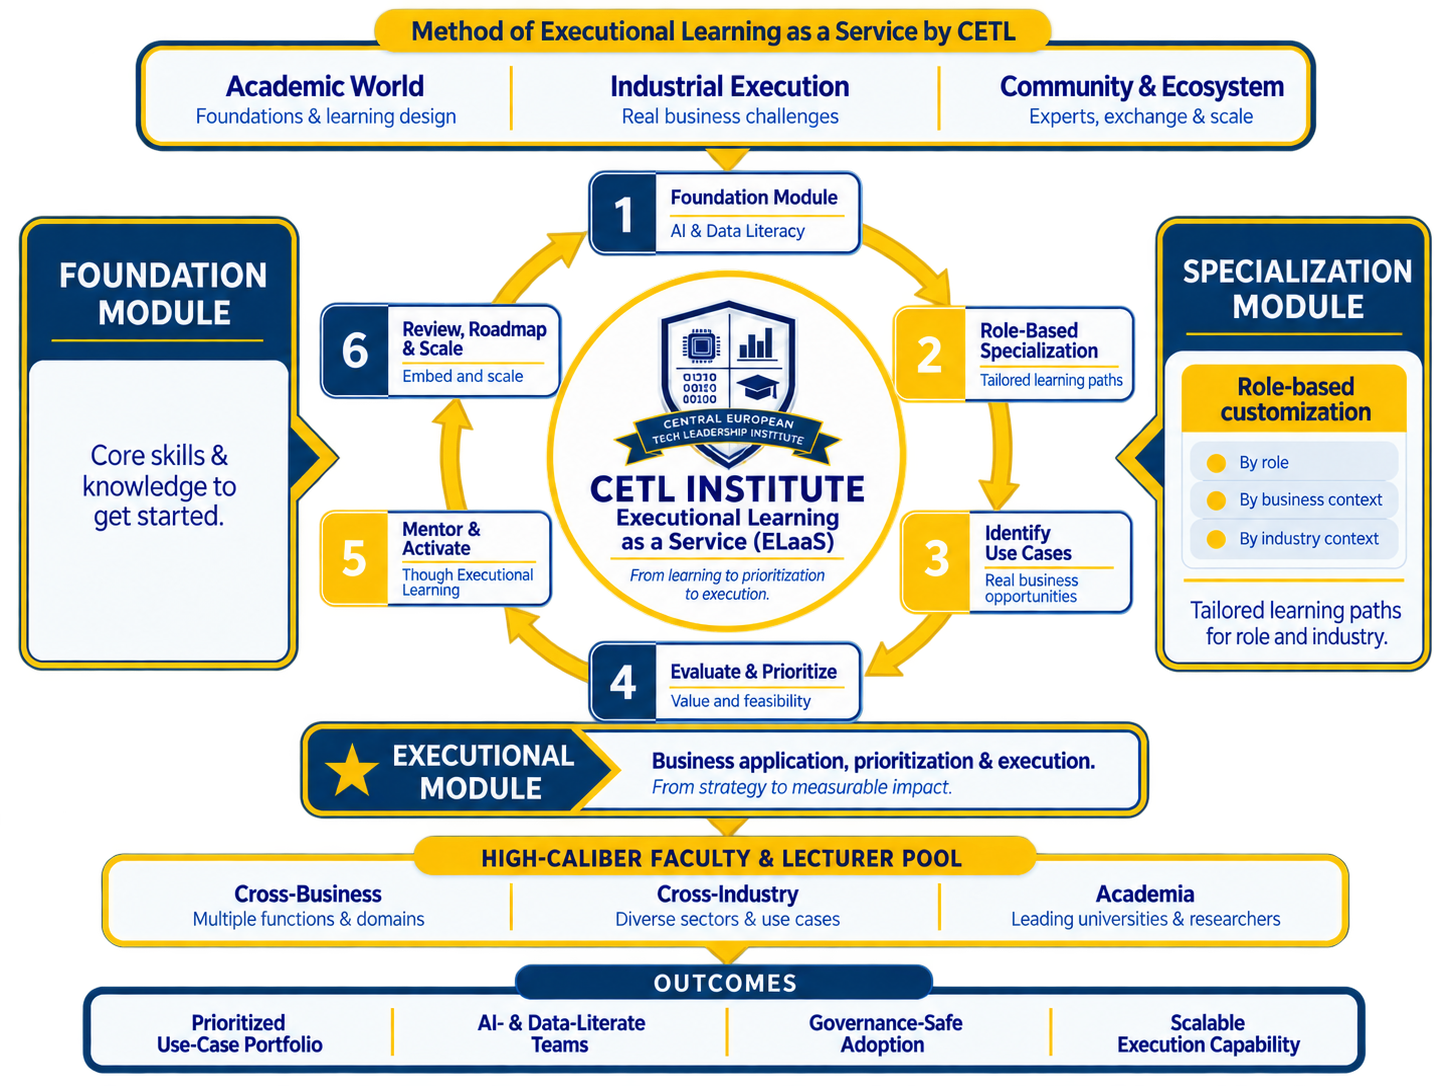
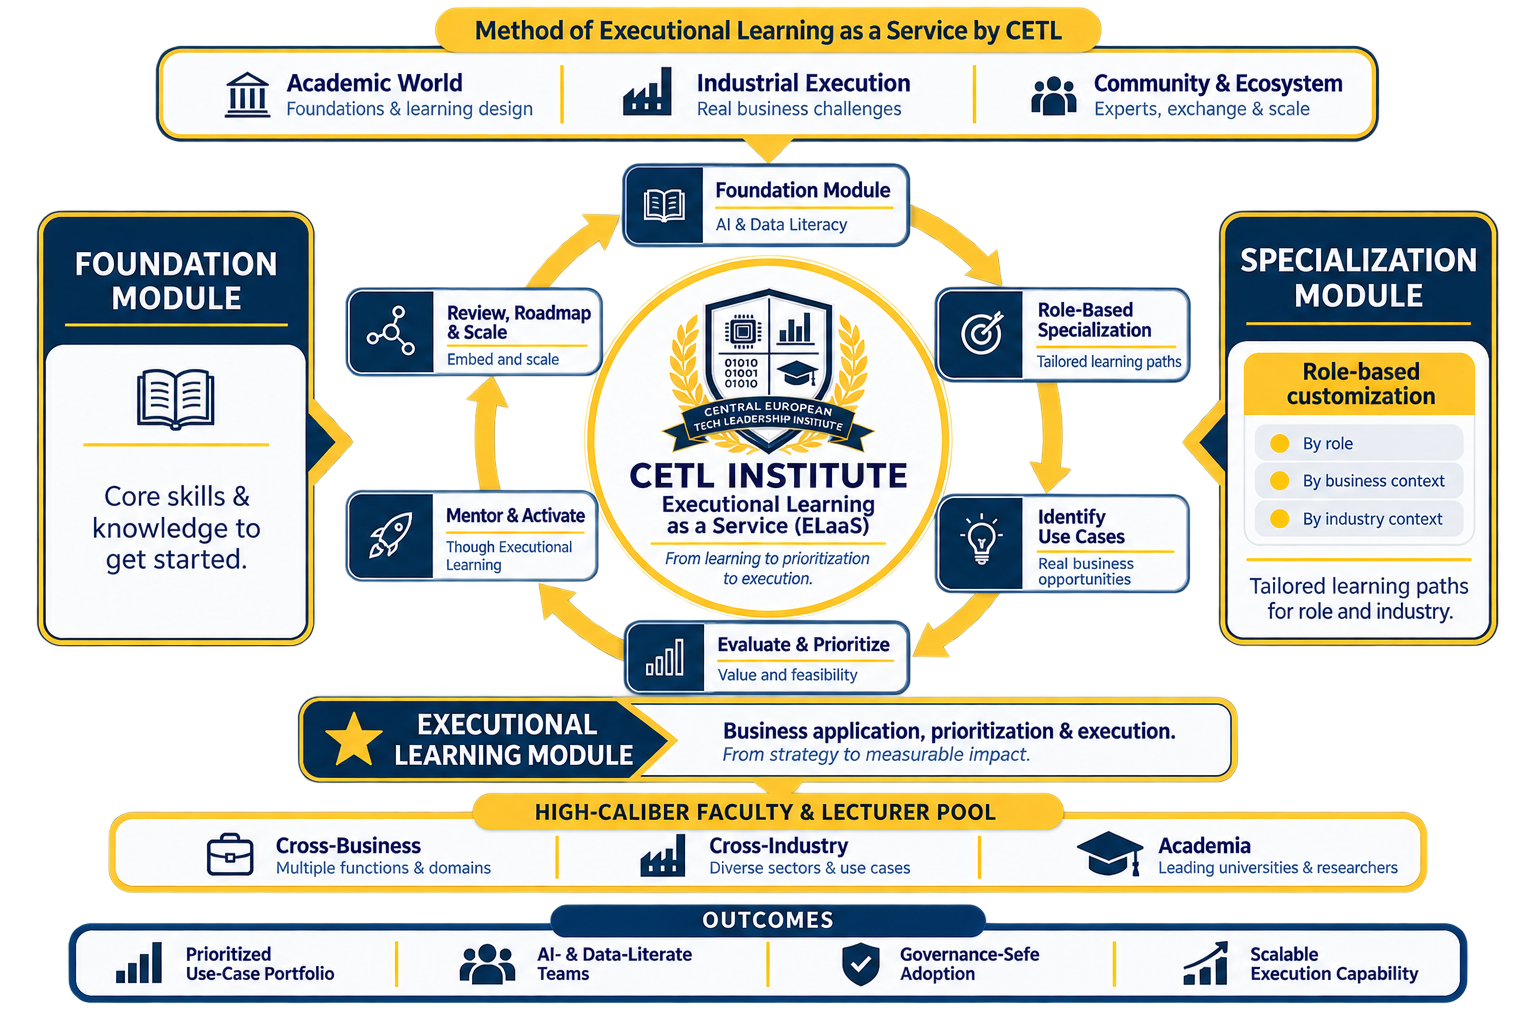
content: shorten methodology headline, swap updated diagram, retitle portfolio headline
- Methodology section headline reduced to just "Methodik"/"Methodology".
- New ELaaS method & ecosystem diagram (icons on the ecosystem band,
  glow background).
- Products headline now leads with "Maßschneiderung für die Talente
  in Ihrem Unternehmen." / "Customization for the talent in your
  organization."

diff --git a/lib/content.de.ts b/lib/content.de.ts
@@ -395,7 +395,7 @@ export const de: ContentBundle = {
 
   ELAAS_METHODOLOGY: {
     eyebrow: "Unser Core USP",
-    headline: "Executional Learning as a Service: Methodik & Ökosystem",
+    headline: "Methodik",
     intro: [
       "Unsere Executional-Learning-Methodik kombiniert das Beste aus hochkarätigen akademischen Modulen mit Zertifizierung, Industrie und Community — und aktiviert Kompetenzen direkt in der Praxis, mit maßgeschneiderten Lernformaten und rollenbasierter Aktivierung für die Transformation von Unternehmen.",
       "Die Methodik skaliert diese Lernarchitekturen flexibel auf Kontext und Zielgruppe, während beispielsweise Embedded Engineering die Befähigung nah an reale Business-Herausforderungen bringt. Über unsere Community verwandeln wir Ökosystem-Energie in gemeinsame Wirkung — von der Idee zur Lösung, die standardisierte Lernformate, Lehrgänge und Seminare (manchmal mit kurzen Capstones) allein nicht liefern können.",
@@ -758,7 +758,7 @@ export const de: ContentBundle = {
     },
     productPortfolio: {
       eyebrow: "CETL Portfolio",
-      headline: "Höchste Individualisierung für Ihr Unternehmen durch CETLs einzigartiges Rahmenwerk.",
+      headline: "Maßschneiderung für die Talente in Ihrem Unternehmen.",
       intro: "CETL befähigt Unternehmen durch die einzigartige, individuelle Kopplung Ihrer Unternehmensstrategie (Standards, Tools, operative Ziele & Herausforderungen) mit den Lernergebnissen und -zielen Ihres wertvollsten Guts: Ihrer Mitarbeiter:innen. CETL Portfolio ist strategisch & operativ auf die spezifischen Reifegradlücken von Organisationen mit komplexer Enterprise-Architektur und regulatorischen Anforderungen ausgelegt — wir verbinden strukturiertes Executional Learning mit unabhängiger Fähigkeitsbewertung und praxisnaher Befähigung, modular kombinierbar von der Grundlage bis zur eingebetteten Umsetzung, mit branchenübergreifenden Use Cases, Industry-Workshops, Data-&-AI-Literacy-Blöcken und Tech-Modulen.",
     },
     programFlow: {

diff --git a/lib/content.en.ts b/lib/content.en.ts
@@ -370,7 +370,7 @@ export const en: ContentBundle = {
 
   ELAAS_METHODOLOGY: {
     eyebrow: "Our Core USP",
-    headline: "Executional Learning as a Service: Methodology & Ecosystem",
+    headline: "Methodology",
     intro: [
       "Our Executional Learning methodology combines the best of high-caliber academic modules with certification, industry and community — activating capabilities directly in practice, with tailored learning formats and role-based activation for enterprise transformation.",
       "The methodology scales these learning architectures flexibly to context and audience, while embedded engineering, for example, brings enablement close to real business challenges. Through our community, we turn ecosystem energy into shared impact — from idea to solution, something standardized learning formats, courses and seminars (sometimes with short capstones) cannot deliver on their own.",
@@ -682,7 +682,7 @@ export const en: ContentBundle = {
 
     productPortfolio: {
       eyebrow: "CETL Portfolio",
-      headline: "Maximum customization for your organization through CETL's unique framework.",
+      headline: "Customization for the talent in your organization.",
       intro: "CETL enables organizations through the unique, individual coupling of your company strategy (standards, tools, operational goals & challenges) with the learning outcomes and objectives of your most valuable asset: your people. The CETL portfolio is strategically and operationally designed for the specific maturity gaps of organizations with complex enterprise architecture and regulatory requirements — we connect structured executional learning with independent capability assessment and hands-on enablement, modular and combinable from foundation to embedded execution, with cross-industry use cases, industry workshops, data & AI literacy blocks and tech modules.",
     },
     programFlow: {
